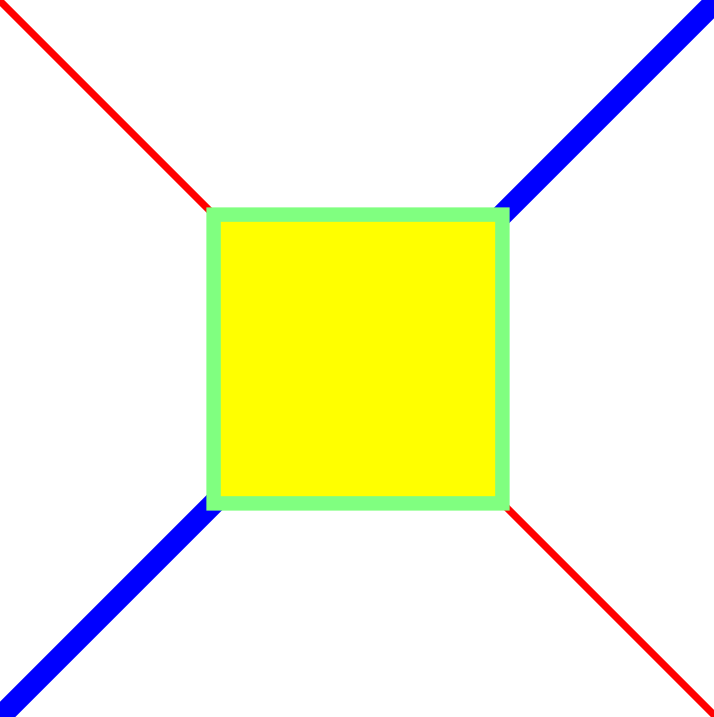
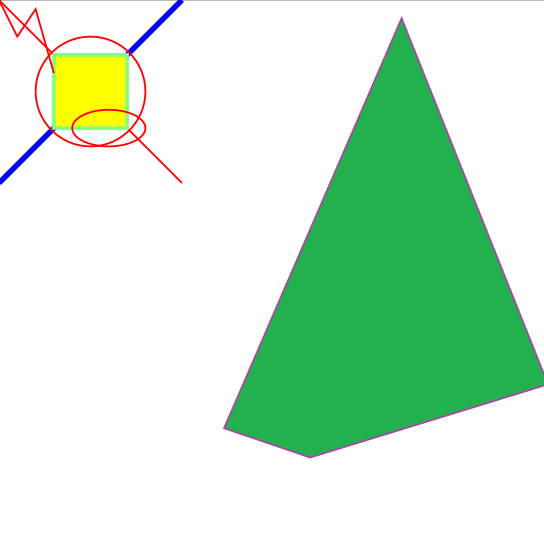
tigerpy_drawing:
- Added Circle, Ellipse, Polyline & Polygon drawings

diff --git a/tigerpy_drawing.py b/tigerpy_drawing.py
@@ -40,6 +40,22 @@ class DrawingVisitor(ABC):
     def DrawRectangle(self, pen, x, y, width, height):
         pass
 
+    @abstractmethod
+    def DrawCircle(self, pen, cx, cy, radius):
+        pass
+
+    @abstractmethod
+    def DrawEllipse(self, pen, cx, cy, rx, ry):
+        pass
+
+    @abstractmethod
+    def DrawPolyline(self, pen, points):
+        pass
+
+    @abstractmethod
+    def DrawPolygon(self, pen, points):
+        pass
+
 class Drawing:
     @abstractmethod
     def Accept(self, visitor):
@@ -66,6 +82,43 @@ class RectangleDrawing(Drawing):
 
     def Accept(self, visitor):
         visitor.DrawRectangle(self.mPen, self.mX, self.mY, self.mWidth, self.mHeight)        
+
+class CircleDrawing(Drawing):
+    def __init__(self, pen, cx, cy, radius):
+        self.mPen = copy.copy(pen)
+        self.mCX = cx
+        self.mCY = cy
+        self.mRadius = radius
+
+    def Accept(self, visitor):
+        visitor.DrawCircle(self.mPen, self.mCX, self.mCY, self.mRadius)
+
+class EllipseDrawing(Drawing):
+    def __init__(self, pen, cx, cy, rx, ry):
+        self.mPen = copy.copy(pen)
+        self.mCX = cx
+        self.mCY = cy
+        self.mRX = rx
+        self.mRY = ry
+
+    def Accept(self, visitor):
+        visitor.DrawEllipse(self.mPen, self.mCX, self.mCY, self.mRX, self.mRY)
+
+class PolylineDrawing(Drawing):
+    def __init__(self, pen, points):
+        self.mPen = copy.copy(pen)
+        self.mPoints = points
+
+    def Accept(self, visitor):
+        visitor.DrawPolyline(self.mPen, self.mPoints)
+
+class PolygonDrawing(Drawing):
+    def __init__(self, pen, points):
+        self.mPen = copy.copy(pen)
+        self.mPoints = points
+
+    def Accept(self, visitor):
+        visitor.DrawPolygon(self.mPen, self.mPoints)       
 
 # Helper methods for SVG tags
 def BeginTag(tag):
@@ -119,6 +172,71 @@ class SVGDrawingVisitor(DrawingVisitor):
         line += EndTag() + '\n'
         self.mFile.write(line)
 
+    def DrawCircle(self, pen, cx, cy, radius):
+        line = BeginTag("circle") + \
+               NumberAttribute("cx", cx) + \
+               NumberAttribute("cy", cy) + \
+               NumberAttribute("r", radius) + \
+               NumberAttribute("stroke-width", pen.GetStrokeSize()) + \
+               ColorAttribute("stroke", pen.GetStrokeColor())
+        
+        if (pen.GetFillColor() == None):
+               line += StringAttribute("fill", "none")
+        else:
+               line += ColorAttribute("fill", pen.GetFillColor())
+
+        line += EndTag() + '\n'
+        self.mFile.write(line)  
+
+    def DrawEllipse(self, pen, cx, cy, rx, ry):   
+        line = BeginTag("ellipse") + \
+               NumberAttribute("cx", cx) + \
+               NumberAttribute("cy", cy) + \
+               NumberAttribute("rx", rx) + \
+               NumberAttribute("ry", ry) + \
+               NumberAttribute("stroke-width", pen.GetStrokeSize()) + \
+               ColorAttribute("stroke", pen.GetStrokeColor())
+        
+        if (pen.GetFillColor() == None):
+               line += StringAttribute("fill", "none")
+        else:
+               line += ColorAttribute("fill", pen.GetFillColor())
+
+        line += EndTag() + '\n'
+        self.mFile.write(line)  
+
+    def DrawPolyline(self, pen, points):
+        line = BeginTag("polyline")
+        line += 'points="'
+        for pt in points:
+            line += str(pt[0]) + ',' + str(pt[1]) + ' '
+        line += '" '
+
+        line += NumberAttribute("stroke-width", pen.GetStrokeSize())
+        line += ColorAttribute("stroke", pen.GetStrokeColor())
+        line += StringAttribute("fill", "none")
+
+        line += EndTag() + '\n'
+        self.mFile.write(line) 
+
+    def DrawPolygon(self, pen, points):
+        line = BeginTag("polygon")
+        line += 'points="'
+        for pt in points:
+            line += str(pt[0]) + ',' + str(pt[1]) + ' '
+        line += '" '
+
+        line += NumberAttribute("stroke-width", pen.GetStrokeSize())
+        line += ColorAttribute("stroke", pen.GetStrokeColor())
+        
+        if (pen.GetFillColor() == None):
+               line += StringAttribute("fill", "none")
+        else:
+               line += ColorAttribute("fill", pen.GetFillColor())
+
+        line += EndTag() + '\n'
+        self.mFile.write(line)         
+
     def __del__(self):
         self.mFile.write('</svg>')
         self.mFile.close()
@@ -138,6 +256,18 @@ class DrawingCanvas:
 
     def DrawRectangle(self, x, y, width, height):
         self.mDrawings.append(RectangleDrawing(self.mPen, x, y, width, height))
+
+    def DrawCircle(self, cx, cy, radius):
+        self.mDrawings.append(CircleDrawing(self.mPen, cx, cy, radius))
+
+    def DrawEllipse(self, cx, cy, rx, ry):
+        self.mDrawings.append(EllipseDrawing(self.mPen, cx, cy, rx, ry))
+
+    def DrawPolyline(self, points):
+        self.mDrawings.append(PolylineDrawing(self.mPen, points))
+
+    def DrawPolygon(self, points):
+        self.mDrawings.append(PolygonDrawing(self.mPen, points))        
                         
     def ExportSVG(self, fileName):
         svgDwgVisitor = SVGDrawingVisitor(fileName, self.mWidth, self.mHeight)

diff --git a/client.py b/client.py
@@ -4,7 +4,7 @@ from tigerpy_drawing import DrawingCanvas, Pen
 redThinPen = Pen(1, (255, 0, 0))
 blueThickPen = Pen(3, (0, 0, 255))
 
-canvas = DrawingCanvas(100, 100)
+canvas = DrawingCanvas(300, 300)
 
 canvas.SetPen(redThinPen)
 canvas.DrawLine(0, 0, 100, 100)
@@ -15,6 +15,18 @@ canvas.DrawLine(100, 0, 0, 100)
 rectPen = Pen(2, (128, 255, 128), (255, 255, 0))
 canvas.SetPen(rectPen)
 canvas.DrawRectangle(30, 30, 40, 40)
+
+canvas.SetPen(redThinPen)
+canvas.DrawCircle(50, 50, 30)
+
+canvas.SetPen(redThinPen)
+canvas.DrawEllipse(60, 70, 20, 10)
+
+canvas.DrawPolyline([[0, 0], [5, 10], [10, 20], [20, 5], [30, 40]])
+
+purpleStrokeGreenFillPen = Pen(1, (163, 73, 164), (34, 177, 76))
+canvas.SetPen(purpleStrokeGreenFillPen)
+canvas.DrawPolygon([[220, 10], [300, 210], [170, 250], [123, 234]])
 
 canvas.ExportSVG("temp.svg")
 

diff --git a/README.md b/README.md
@@ -5,12 +5,13 @@ This is a Python library, which will enable clients to perform 2D drawing and th
 
 ## Client Usage
 ```python
+# client.py
 from tigerpy_drawing import DrawingCanvas, Pen
 
 redThinPen = Pen(1, (255, 0, 0))
 blueThickPen = Pen(3, (0, 0, 255))
 
-canvas = DrawingCanvas(100, 100)
+canvas = DrawingCanvas(300, 300)
 
 canvas.SetPen(redThinPen)
 canvas.DrawLine(0, 0, 100, 100)
@@ -21,6 +22,18 @@ canvas.DrawLine(100, 0, 0, 100)
 rectPen = Pen(2, (128, 255, 128), (255, 255, 0))
 canvas.SetPen(rectPen)
 canvas.DrawRectangle(30, 30, 40, 40)
+
+canvas.SetPen(redThinPen)
+canvas.DrawCircle(50, 50, 30)
+
+canvas.SetPen(redThinPen)
+canvas.DrawEllipse(60, 70, 20, 10)
+
+canvas.DrawPolyline([[0, 0], [5, 10], [10, 20], [20, 5], [30, 40]])
+
+purpleStrokeGreenFillPen = Pen(1, (163, 73, 164), (34, 177, 76))
+canvas.SetPen(purpleStrokeGreenFillPen)
+canvas.DrawPolygon([[220, 10], [300, 210], [170, 250], [123, 234]])
 
 canvas.ExportSVG("temp.svg")
 ```
